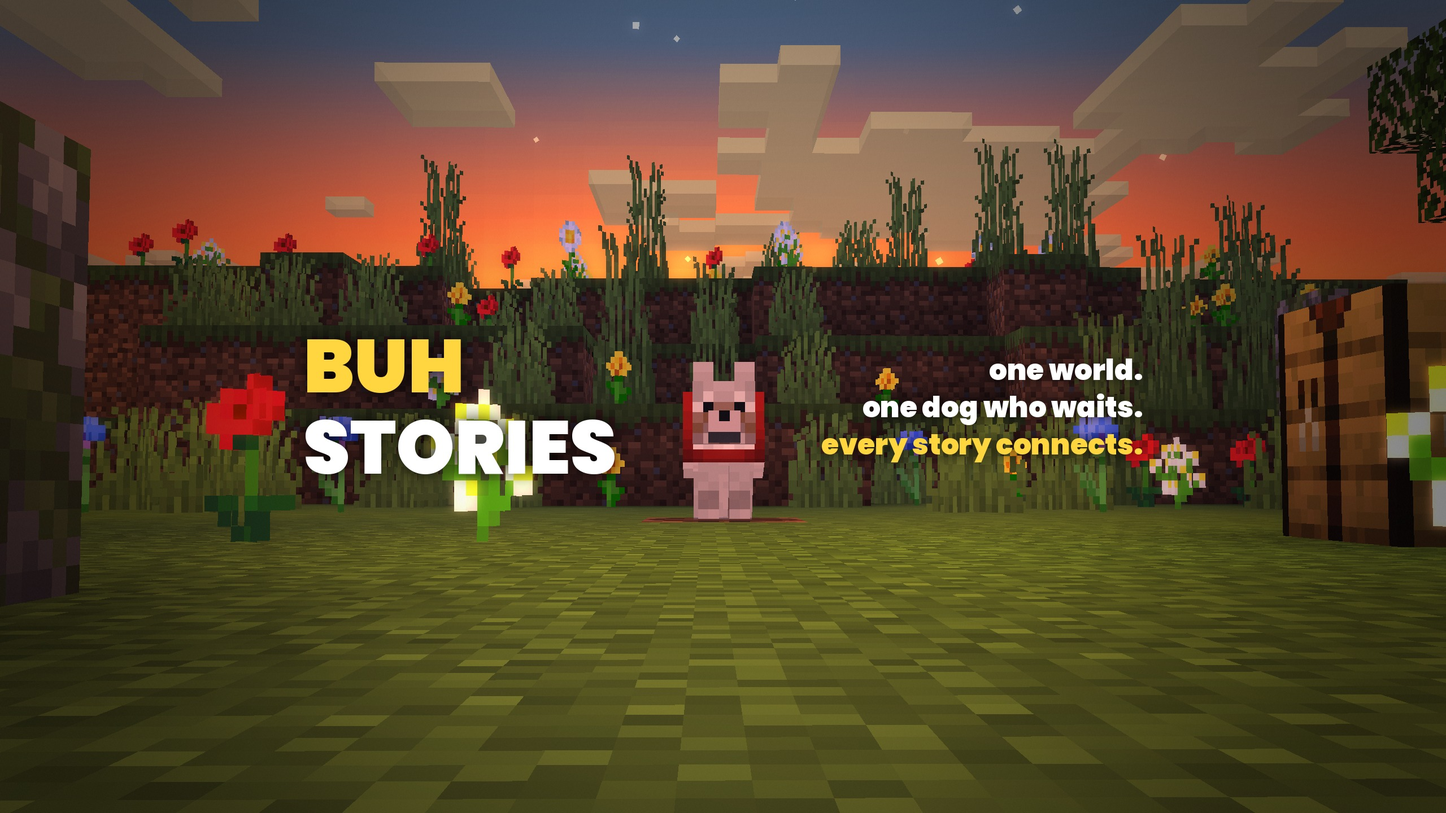
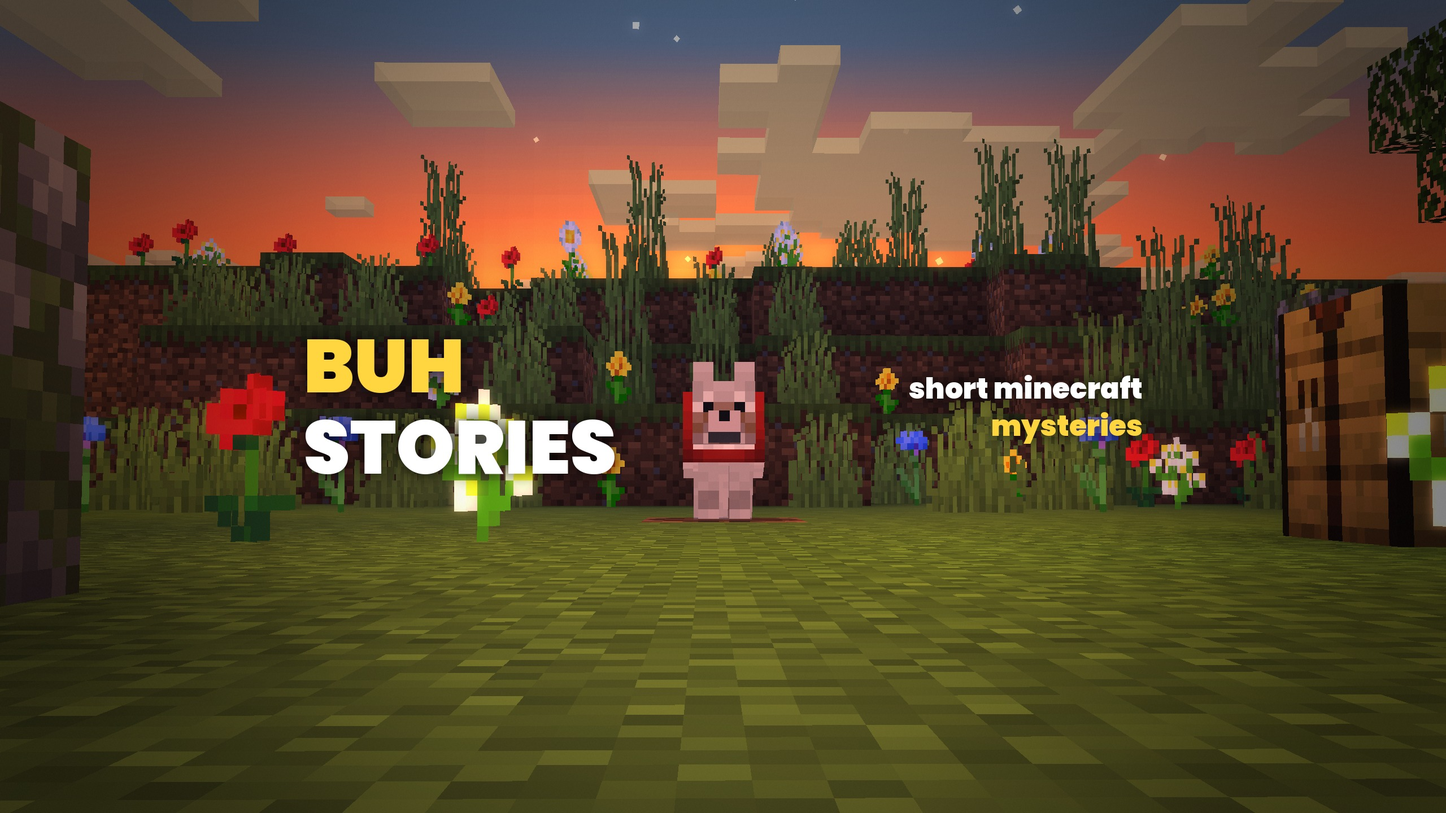
Buh Stories: no shared-world / connected-stories framing (owner, r:rca5363)
Banner tagline is now just what the channel is ("short minecraft / mysteries"); the promise, channel description,
video description template, cross-promo, avatar caption, playlists (themes, not a timeline) and HelloBuh's
"one world, one voice" line no longer say the stories connect. Release order reasoning rewritten (each stands
alone; the two dog stories kept apart): 1 Light Sleeper, 2 Good Boy, 3 Raids, 4 Gold, 5 Dog on the Hill.

Claude-Session: https://claude.ai/code/session_019n1tKFHaqGQVYXgHuLmwJG

Changed region(s): [[0.5625, 0.4375, 0.8125, 0.5625]]

diff --git a/scripts/buh_stories_art.py b/scripts/buh_stories_art.py
@@ -36,7 +36,7 @@ def glow_text(base, items, blur):
 def banner(src, out, guides):
     im = Image.open(src).convert("RGB").resize((W, H), Image.LANCZOS).convert("RGBA")
     x0, y0 = (W - BW) // 2, (H - BH) // 2
-    # the dog sits in the middle of the band: the wordmark left of it, the promise right of it
+    # the dog sits in the middle of the band: the wordmark left of it, what the channel is right of it
     big, small = ImageFont.truetype(POPPINS, 132), ImageFont.truetype(POPPINS, 50)
     d = ImageDraw.Draw(im)
     bx = x0 + 30
@@ -44,11 +44,11 @@ def banner(src, out, guides):
     h1 = big.getbbox(l1)[3]
     yb = y0 + (BH - 2 * h1 - 10) // 2 - 18
     right_x = x0 + BW - 30
-    tag = ["one world.", "one dog who waits.", "every story connects."]
+    tag = ["short minecraft", "mysteries"]   # what the channel is, nothing more (owner: no shared-world tagline, r:rca5363)
     tws = [d.textlength(t, font=small) for t in tag]
-    ty = y0 + (BH - 3 * 66) // 2
+    ty = y0 + (BH - len(tag) * 66) // 2
     items = [(l1, big, (bx, yb), GOLD), (l2, big, (bx, yb + h1 + 4), WHITE)]
-    items += [(t, small, (right_x - tw, ty + i * 66), WHITE if i < 2 else GOLD) for i, (t, tw) in enumerate(zip(tag, tws))]
+    items += [(t, small, (right_x - tw, ty + i * 66), WHITE if i < len(tag) - 1 else GOLD) for i, (t, tw) in enumerate(zip(tag, tws))]
     im = glow_text(im, items, 14)
     if guides:
         ImageDraw.Draw(im).rectangle((x0, y0, x0 + BW, y0 + BH), outline=(255, 0, 0, 255), width=4)

diff --git a/docs/brand.md b/docs/brand.md
@@ -4,7 +4,7 @@ Owner, 2026-11-10: "Im thinking we do the unique voices", "Instead of the sped u
 identity", "I think the narrator does all of it essentially, plus short lines from other characters" (STANDARDS 2.00).
 The owner picks the voice. `voices/cast.json` is unchanged. Candidates: `out/brand_voice/` (not committed; README there).
 
-**The promise:** *one Minecraft world, one voice, and every Short is the weirdest thing that ever happened in it.*
+**The promise:** *one voice, and every Short is the weirdest thing that ever happened to the kid telling it.*
 
 ## Why these choices (the evidence, and how strong it is)
 - **Reach depends on the first seconds.** An *engaged view* is one that "stayed to watch past the initial seconds"
@@ -42,7 +42,7 @@ The owner picks the voice. `voices/cast.json` is unchanged. Candidates: `out/bra
   the strange part first.
 
 ## The narrator: "the house voice"
-- **Who:** the voice of the HelloBuh world. Whoever lived the story tells it, and they all speak in this one voice:
+- **Who:** the house voice. Whoever lived the story tells it, and they all speak in this one voice:
   kid Buh in Light Sleeper, Pip on Dog Hill, the dog in Good Boy. One actor plays every "I", like a friend doing all
   the parts at a sleepover. The narrator is never named and never says Buh's name (STANDARDS 1.8).
 - **Age and attitude: a happy, bubbly kid who's figuring the world out** (STANDARDS 2.000). The owner, 2026-11-10:
@@ -217,8 +217,7 @@ cue we already own costs nothing: the **boxed white bell** in the background of 
 ## Titles and descriptions
 **Title = line 1, cut to its strangest part, lowercase, ≤ 45 characters, then one emoji and `#minecraft #shorts`**:
 "my village is covered in 9,000 carpets 😳". Use a number written as digits, a first-person "my/I", and no
-"true story" (STANDARDS 1.7). The description's first line is the quotable line, then "HelloBuh: one world, one
-voice." Pinned comment: one lore question ("who built the hut on Dog Hill?").
+"true story" (STANDARDS 1.7). The description's first line is the quotable line. Pinned comment: one lore question ("who built the hut on Dog Hill?").
 
 ## The opening frame
 Frame 1 is the thumbnail. It shows **line 1's subject, already moving**, at the exact moment line 1 begins. The title
@@ -228,7 +227,8 @@ black frame, no channel name, no intro, no establishing pause. If the sound logo
 # Buh Stories channel (owner, 2026-11-10: the story Shorts get their own channel)
 
 @HelloBuh keeps the Minecraft shitposts and "spot what's wrong". The story Shorts go to a second channel, built on
-everything above: the Pip voice, Buh as the recurring hero (never named aloud), one shared world (docs/world/canon.md).
+everything above: the Pip voice and Buh as the recurring hero (never named aloud). Every story stands alone: no
+shared-world or connected-stories framing in anything the viewer sees (owner, r:rca5363).
 Nothing is uploaded until the owner creates the channel and authorises it (docs/upload-setup.md "A second channel").
 The art is in `brand/buh_stories/`, the review page is linked from the session report.
 
@@ -239,8 +239,8 @@ The art is in `brand/buh_stories/`, the review page is linked from the session r
   2. @TheBuhStories
   3. @HelloBuhStories (ties it to the main channel, but it's long)
   4. "Tales from Hushwell" @HushwellTales (a world name instead of the hero; good if "Buh" is taken)
-- **Promise (one line):** *Short Minecraft mysteries from one world: every story is told by someone who lived it, and
-  every story connects.*
+- **Promise (one line):** *Short Minecraft mysteries, each told by the kid who lived it, with a twist you won't see
+  coming.* Every story stands alone (owner, 2026-11-11, r:rca5363: no shared-world or connected-stories framing).
 - **Who's talking:** Pip's voice: a happy, bubbly kid who's figuring the world out and tells you the strange thing
   like it's a fun fact. Buh is the hero you keep meeting at different ages (kid in Hushwell, Grandpa's helper in
   Ravenford, the player who left his dog).
@@ -249,11 +249,11 @@ The art is in `brand/buh_stories/`, the review page is linked from the session r
   "not made for kids"); the stories are for everyone who grew up on Minecraft.
 
 ## Visuals (`brand/buh_stories/`, rendered with our own renderer from Dog on the Hill's recording)
-- **Avatar** `avatar.png` (800x800): the dog with the red collar at sunset, the channel's mascot (the dog who waits).
+- **Avatar** `avatar.png` (800x800): the dog with the red collar at sunset, the channel's mascot.
   It reads as "a dog with a red collar" at 48 px.
 - **Banner** `banner.jpg` (2560x1440): the dog alone on Dog Hill against the sunset, in the middle of the 1546x423 safe
-  band. "BUH" in gold and "STORIES" in white (Poppins Black) on the left; "one world. / one dog who waits. / every story
-  connects." on the right.
+  band. "BUH" in gold and "STORIES" in white (Poppins Black) on the left; "short minecraft / mysteries" on the right (what
+  the channel is, nothing more).
 - **Watermark** `watermark.png` (150x150): the avatar in a Buh-gold ring, transparent outside.
 - **First frame / title band** `cover_dog_hill.png`: the Short format unchanged (black bands, game view 1080x1011),
   plus a gold "BUH STORY #N" pill over the title. The title is white Inter ExtraBold (edit.py's band font), with its
@@ -273,35 +273,35 @@ the series tag first ("Buh Story #N: ..."), it's a one-line change.
 | # (suggested release order) | story | title | cover title (band) |
 |---|---|---|---|
 | 1 | Light Sleeper | my village is covered in 9,000 carpets 😶 \| Buh Story #1 #minecraft #shorts | My village is covered in 9,000 **carpets** |
-| 2 | Thirty-One Raids | grandpa won 31 raids. he started all of them 😳 \| Buh Story #2 #minecraft #shorts | Thirty-one raids. Every one started the night Grandpa came **home** |
-| 3 | Gold for the Portal | my grandma has thrown 9,000 gold into a portal 🪙 \| Buh Story #3 #minecraft #shorts | My grandma has thrown 9,000 gold into a **portal** |
-| 4 | Good Boy | my human tried to lose me 37 times 🐺 \| Buh Story #4 #minecraft #shorts | My human has tried to lose me 37 **times** |
+| 2 | Good Boy | my human tried to lose me 37 times 🐺 \| Buh Story #2 #minecraft #shorts | My human has tried to lose me 37 **times** |
+| 3 | Thirty-One Raids | grandpa won 31 raids. he started all of them 😳 \| Buh Story #3 #minecraft #shorts | Thirty-one raids. Every one started the night Grandpa came **home** |
+| 4 | Gold for the Portal | my grandma has thrown 9,000 gold into a portal 🪙 \| Buh Story #4 #minecraft #shorts | My grandma has thrown 9,000 gold into a **portal** |
 | 5 | Dog on the Hill | the dog on the hill hasn't moved in 900 days 🐕 \| Buh Story #5 #minecraft #shorts | The dog on the hill hasn't moved in **900** days |
 
-Why this order: Light Sleeper is the strongest hook and the bar; Good Boy comes before Dog on the Hill, so the
-dog's wait lands for anyone who watches in order (each still stands alone). Raids' title gives away less than its
-twist; check it against the final script before upload.
+Why this order: Light Sleeper is the strongest hook and the bar, so it opens the channel. After that the order is free,
+because each story stands alone; the two dog stories (Good Boy, Dog on the Hill) are kept apart so the feed stays
+varied. Raids' title gives away less than its twist; check it against the final script before upload.
 
 ## Pinned comment (one question per story, one people want to answer)
 1. Light Sleeper: "What do you think is under the well? Wrong answers only 👇"
-2. Thirty-One Raids: "Should Buh ever tell Grandpa where raid 32 came from?"
-3. Gold for the Portal: "What would YOU send through the portal to Grandpa?"
-4. Good Boy: "Be honest: would you have made him sit?"
+2. Good Boy: "Be honest: would you have made him sit?"
+3. Thirty-One Raids: "Should Buh ever tell Grandpa where raid 32 came from?"
+4. Gold for the Portal: "What would YOU send through the portal to Grandpa?"
 5. Dog on the Hill: "He's waited 900 days and still has no name. What should we call him?"
 
 ## Description, tags, playlists
 - **Channel description:**
-  "Short Minecraft mysteries from one world. Every story is told by someone who lived it: a village that carpets every
-  road, a grandpa who has won every raid, a dog who never stops waiting. Watch them in order and the world starts to
-  connect. Made in vanilla Minecraft. Fiction, every word. More Minecraft chaos on @HelloBuh."
-- **Video description template:** line 1 = the hook, then "Buh Story #N. Every story happens in the same world.", the
+  "Short Minecraft mysteries. Every story is told by someone who lived it: a village that carpets every
+  road, a grandpa who has won every raid, a dog who never stops waiting. Every one ends on a twist. Made in vanilla
+  Minecraft. Fiction, every word. More Minecraft chaos on @HelloBuh."
+- **Video description template:** line 1 = the hook, then "Buh Story #N.", the
   pinned question, the music credit, then `#minecraft #shorts #minecraftstory #buhstories`.
 - **Hashtags:** #minecraft #shorts #minecraftstory #buhstories (four at most; the first three show above the title).
-- **Keywords (channel and video tags):** minecraft story, minecraft mystery, minecraft shorts, minecraft lore,
+- **Keywords (channel and video tags):** minecraft story, minecraft mystery, minecraft shorts, minecraft twist,
   minecraft village, minecraft dog, minecraft warden, minecraft raid, buh stories.
-- **Playlists:** "Buh Stories (in order)", "Hushwell" (Light Sleeper, Dog on the Hill), "The Dog" (Good Boy, Dog on
-  the Hill), "Grandpa" (Thirty-One Raids, Gold for the Portal).
+- **Playlists:** "All Buh Stories", "Dog stories" (Good Boy, Dog on the Hill), "Grandpa and Grandma stories"
+  (Thirty-One Raids, Gold for the Portal): themes, not a timeline.
 
 ## HelloBuh cross-promo (a community post, and a pinned comment on the next HelloBuh Short)
-"We made a second channel 👀 Buh Stories: short Minecraft mysteries that all happen in the same world. First one: a
+"We made a second channel 👀 Buh Stories: short Minecraft mysteries with a twist. First one: a
 village covered in 9,000 carpets. You'll want to know why. → @BuhStories"
